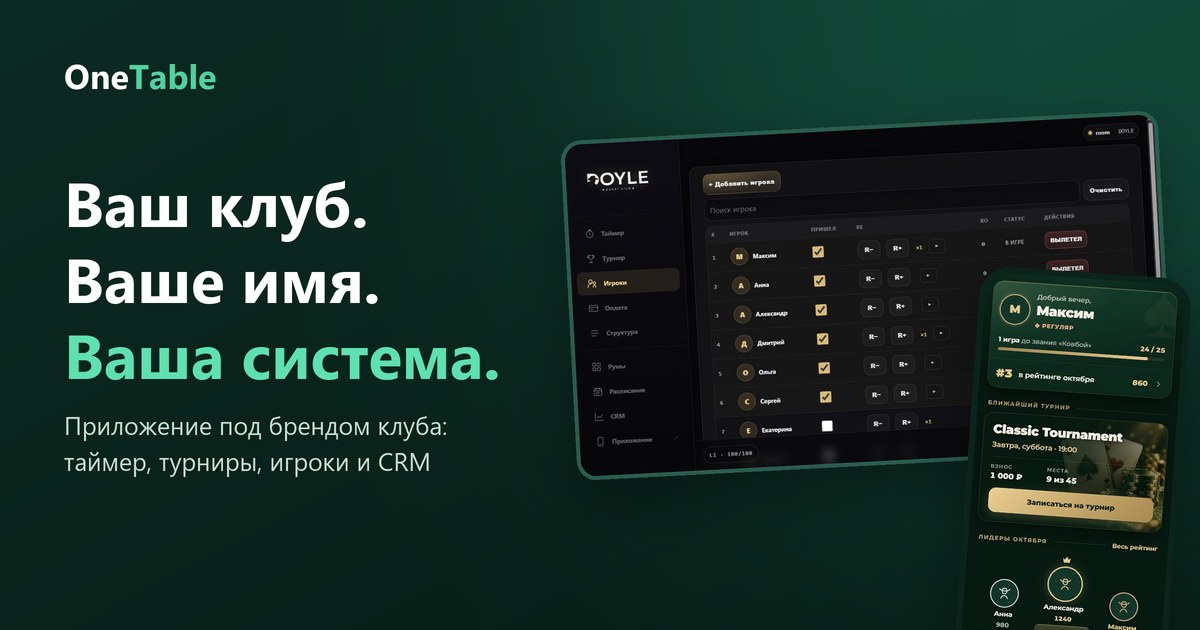
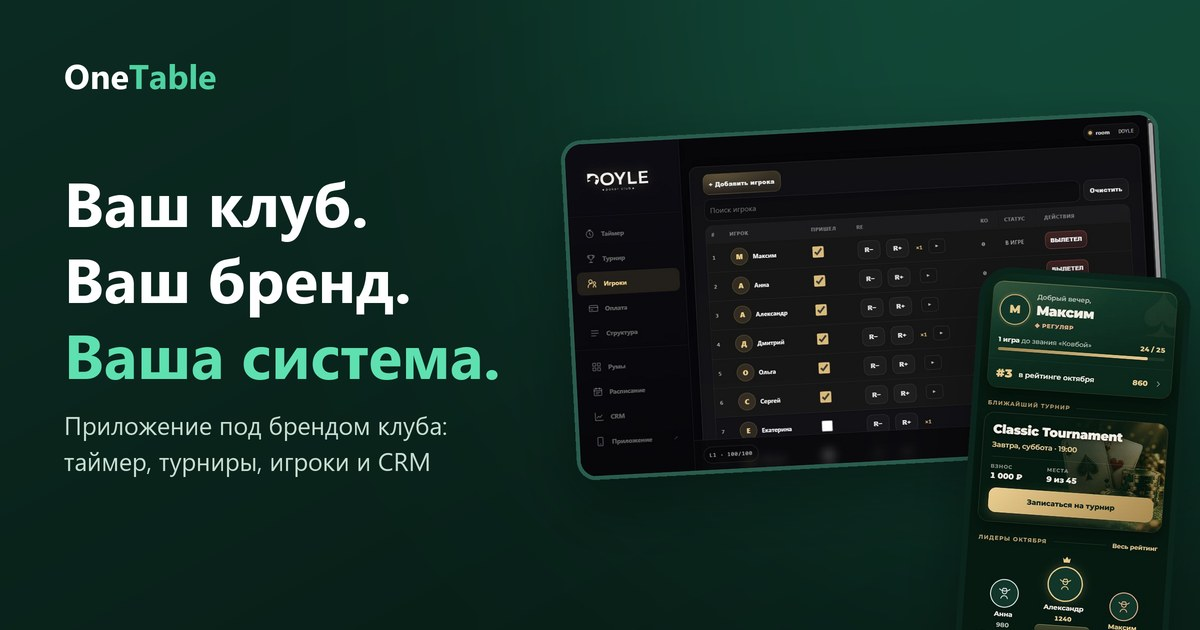
Show all four roles in one row; rename "Ваше имя" to "Ваш бренд"
- Roles section: four compact cards in a single row on screens >=1180px, full-size previews
- Hero and club section headlines now say "Ваш бренд."
- Regenerate og-image.jpg with the new headline

Changed region(s): [[0.1542, 0.3921, 0.3392, 0.5127]]

diff --git a/index.html b/index.html
@@ -10,13 +10,13 @@
 <meta name="twitter:card" content="summary_large_image"><meta name="twitter:title" content="OneTable — платформа для управления покерным клубом"><meta name="twitter:description" content="Приложение под брендом вашего клуба и покерная система: таймер, турниры, админ-панель и CRM — в одной платформе."><meta name="twitter:image" content="https://frimarion.github.io/onetable/og-image.jpg">
 <title>OneTable — платформа для управления покерным клубом</title>
 <meta name="description" content="Приложение под брендом вашего клуба и покерная система: таймер, турниры, админ-панель и CRM — в одной платформе.">
-<link rel="icon" href="logo.svg" type="image/svg+xml"><link rel="stylesheet" href="styles.css"><link rel="stylesheet" href="showcase.css"><link rel="stylesheet" href="readability.css"><link rel="stylesheet" href="design.css?v=13">
+<link rel="icon" href="logo.svg" type="image/svg+xml"><link rel="stylesheet" href="styles.css"><link rel="stylesheet" href="showcase.css"><link rel="stylesheet" href="readability.css"><link rel="stylesheet" href="design.css?v=15">
 </head>
 <body>
 <svg class="svg-library" xmlns="http://www.w3.org/2000/svg"><symbol id="arrow" viewBox="0 0 24 24"><path d="M5 12h14m-5-5 5 5-5 5"/></symbol><symbol id="check" viewBox="0 0 24 24"><path d="m5 12 4 4L19 6"/></symbol><symbol id="grid" viewBox="0 0 24 24"><rect x="3" y="3" width="7" height="7" rx="2"/><rect x="14" y="3" width="7" height="7" rx="2"/><rect x="3" y="14" width="7" height="7" rx="2"/><rect x="14" y="14" width="7" height="7" rx="2"/></symbol><symbol id="users" viewBox="0 0 24 24"><circle cx="9" cy="8" r="3"/><path d="M3 21v-3a6 6 0 0 1 12 0v3m1-16a3 3 0 0 1 0 6m2 3a5 5 0 0 1 3 5v2"/></symbol><symbol id="chart" viewBox="0 0 24 24"><path d="M4 3v17h17M8 15v-4m5 4V7m5 8V4"/></symbol><symbol id="clock" viewBox="0 0 24 24"><circle cx="12" cy="12" r="9"/><path d="M12 7v5l3 2"/></symbol><symbol id="cup" viewBox="0 0 24 24"><path d="M7 3h10v5a5 5 0 0 1-10 0V3Zm0 2H3v3a4 4 0 0 0 5 4m9-7h4v3a4 4 0 0 1-5 4m-4 1v7m-4 1h8"/></symbol><symbol id="play" viewBox="0 0 24 24"><path d="m9 5 11 7-11 7Z"/></symbol></svg>
 <header class="site-header"><div class="container header-inner"><a class="brand" href="#" aria-label="OneTable — главная"><img src="logo.svg" width="45" height="30" alt=""><span>One<span class="green">Table</span></span></a><nav aria-label="Главная навигация"><a href="#platform">Платформа</a><a href="#roles">Для кого</a><a href="#clubs">Для вашего клуба</a></nav><a class="button button-small button-dark header-cta" href="#contact" data-contact>Обсудить подключение <svg><use href="#arrow"/></svg></a><button class="menu-toggle" aria-label="Открыть меню" aria-expanded="false"><span></span><span></span></button></div></header>
 <main>
-<section class="hero"><div class="container hero-grid"><div class="hero-copy"><div class="eyebrow"><span class="status-dot"></span> ТЕХНОЛОГИИ ДЛЯ ВАШЕГО КЛУБА</div><h1>Ваш клуб.<br>Ваше имя.<br><span class="green">Ваша система.</span></h1><p class="hero-description">Приложение под брендом вашего клуба. Турниры, игроки, таймер и CRM — в одной системе.</p><div class="hero-actions"><a class="button button-green" href="#contact" data-contact>Обсудить подключение <svg><use href="#arrow"/></svg></a><button class="text-button" data-video><span class="play-small">▶</span> Смотреть 90 секунд</button></div><div class="hero-footnote"><span>Ваш бренд</span><span>Ваша команда</span><span>Одна платформа</span></div></div>
+<section class="hero"><div class="container hero-grid"><div class="hero-copy"><div class="eyebrow"><span class="status-dot"></span> ТЕХНОЛОГИИ ДЛЯ ВАШЕГО КЛУБА</div><h1>Ваш клуб.<br>Ваш бренд.<br><span class="green">Ваша система.</span></h1><p class="hero-description">Приложение под брендом вашего клуба. Турниры, игроки, таймер и CRM — в одной системе.</p><div class="hero-actions"><a class="button button-green" href="#contact" data-contact>Обсудить подключение <svg><use href="#arrow"/></svg></a><button class="text-button" data-video><span class="play-small">▶</span> Смотреть 90 секунд</button></div><div class="hero-footnote"><span>Ваш бренд</span><span>Ваша команда</span><span>Одна платформа</span></div></div>
 <div class="hero-visual" aria-label="Пример панели управления и приложения игрока"><div class="visual-grid"></div><div class="orbit-label"><span class="status-dot"></span> ONETABLE / ПРОДУКТ В ДЕЙСТВИИ</div><div class="dashboard real-dashboard"><button class="screen-zoom " data-screen="doyle-admin-players.png" data-title="Doyle — панель администратора" aria-label="Увеличить экран: Doyle — панель администратора"><img src="doyle-admin-players.png" alt="Doyle — панель администратора" loading="lazy"><span class="zoom-hint">Открыть экран ↗</span></button></div>
 <div class="phone real-phone"><button class="screen-zoom " data-screen="doyle-player-home.png" data-title="Doyle — приложение игрока" aria-label="Увеличить экран: Doyle — приложение игрока"><img src="doyle-player-home.png" alt="Doyle — приложение игрока" loading="lazy"><span class="zoom-hint">Открыть экран ↗</span></button></div><div class="product-label product-label-admin"><span>01</span><b>Команда управляет</b><small>Игроки · регистрации · оплаты</small></div><div class="product-label product-label-player"><span>02</span><b>Игроки возвращаются</b><small>Турниры · профиль · рейтинг</small></div><div class="floating-notice"><span class="notice-icon">✓</span><div><b>Новый игрок записался</b><small>Он уже в списке турнира</small></div><span class="notice-live">сейчас</span></div></div></div><div class="container hero-bottom"><span>Меньше рутины. Больше игры.</span><a href="#platform">Познакомиться с OneTable <span>↓</span></a></div></section>
 <section class="proof-strip"><div class="container proof-inner"><p>Разработано на опыте<br><strong>реальных покерных клубов</strong></p><div class="club-logo club-logo-doyle"><img src="doyle-logo-green.svg" alt="Doyle Poker Club" width="190" height="62"></div><div class="club-logo club-logo-vyatka"><img src="vyatka-logo.svg" alt="Вятка Покер Клуб" width="205" height="62"></div><span class="proof-note">Из клубной практики —<br>в ваш рабочий день.</span></div></section>
@@ -30,7 +30,7 @@
 <section class="section roles-section" id="roles"><div class="container"><div class="section-heading"><div><div class="eyebrow">03 / ДЛЯ ВСЕХ УЧАСТНИКОВ КЛУБА</div><h2>Четыре роли.<br><span class="green">Одна система.</span></h2></div><p>Каждому — свои инструменты. От записи на турнир до управления бизнесом.</p></div><div class="role-grid"><article class="role-card"><div class="role-preview role-preview-player actual-role-preview"><span class="preview-kicker">ЛИЧНЫЙ КАБИНЕТ / DOYLE</span><button class="screen-zoom " data-screen="doyle-player-home.png" data-title="Мобильная главная приложения Doyle" aria-label="Увеличить экран: Мобильная главная приложения Doyle"><img src="doyle-player-home.png" alt="Мобильная главная приложения Doyle" loading="lazy"><span class="zoom-hint">Открыть экран ↗</span></button></div><span class="role-icon"><svg><use href="#users"/></svg></span><span class="role-label">01 / ИГРОК</span><h3>Клуб всегда<br>под рукой.</h3><p>Приложение под брендом клуба: расписание, запись на турниры, профиль, статистика и достижения.</p><div class="role-tools">ПРИЛОЖЕНИЕ · РЕЙТИНГ · ПРОФИЛЬ</div></article><article class="role-card"><div class="role-preview role-preview-admin actual-role-preview"><span class="preview-kicker">РЕГИСТРАЦИЯ / DOYLE</span><button class="screen-zoom " data-screen="doyle-admin-players.png" data-title="Панель управления игроками Doyle" aria-label="Увеличить экран: Панель управления игроками Doyle"><img src="doyle-admin-players.png" alt="Панель управления игроками Doyle" loading="lazy"><span class="zoom-hint">Открыть экран ↗</span></button></div><span class="role-icon"><svg><use href="#grid"/></svg></span><span class="role-label">02 / АДМИНИСТРАТОР</span><h3>Порядок<br>в каждом действии.</h3><p>Админ-панель для записей, регистрации игроков, учёта участий, реентри и оплат.</p><div class="role-tools">АДМИН-ПАНЕЛЬ · РЕГИСТРАЦИЯ · УЧЁТ</div></article><article class="role-card"><div class="role-preview role-preview-floor"><span class="preview-kicker">ПРИМЕР ИГРОВОГО ЭКРАНА</span><div class="role-preview-top"><b>DOYLE / LIVE</b><span>УРОВЕНЬ 6</span></div><div class="role-timer">14<span>:</span>32</div><div class="role-timer-line"></div><div class="role-blinds"><span>БЛАЙНДЫ<b>500 / 1 000</b></span><span>В ИГРЕ<b>24 / 36</b></span></div></div><span class="role-icon"><svg><use href="#clock"/></svg></span><span class="role-label">03 / ФЛОР</span><h3>Весь турнир<br>перед глазами.</h3><p>Настраиваемый таймер, структура блайндов, рассадка и фиксация вылетов — для управления ходом игры.</p><div class="role-tools">ТАЙМЕР · РАССАДКА · ХОД ТУРНИРА</div></article><article class="role-card"><div class="role-preview role-preview-owner"><span class="preview-kicker">ПРИМЕР ОТЧЁТА</span><div class="role-preview-top"><b>Обзор клуба</b><span>ИГРОВОЙ ДЕНЬ</span></div><div class="role-owner-count"><small>Учтено оплат</small><strong>48 000 <span>₽</span></strong></div><div class="role-bars" aria-hidden="true"><i style="--h:32%"></i><i style="--h:56%"></i><i style="--h:42%"></i><i style="--h:80%"></i><i style="--h:62%"></i><i style="--h:95%"></i><i style="--h:74%"></i></div><div class="role-owner-bottom"><span><b>36</b> участий</span><span><b>12</b> реентри</span><span><b>48</b> оплат</span></div></div><span class="role-icon"><svg><use href="#chart"/></svg></span><span class="role-label">04 / ВЛАДЕЛЕЦ БИЗНЕСА</span><h3>Общая картина.<br>Основа для решений.</h3><p>CRM, база игроков, результаты турниров и отчёты по оплатам — для управления клубом и работой с гостями.</p><div class="role-tools">CRM · ИГРОКИ · ОТЧЁТЫ</div></article></div></div></section>
 <section class="section workflow" id="workflow"><div class="container"><div class="section-heading"><div><div class="eyebrow">04 / ОТ СТАРТА ДО ФИНИША</div><h2>Один игровой день.<br>Без десятка инструментов.</h2></div><p>Игрок записывается, администратор встречает, флор ведёт турнир, а владелец видит итоги. Все работают в одной системе.</p></div><div class="workflow-line"><article><span class="step-circle">01</span><h3>Подготовьте</h3><p>Выберите макет турнира, задайте структуру и опубликуйте игру.</p><span class="step-detail">МАКЕТ → АНОНС</span></article><article><span class="step-circle">02</span><h3>Встречайте</h3><p>Получайте записи, отмечайте пришедших и распределяйте игроков по столам.</p><span class="step-detail">ЗАПИСЬ → РАССАДКА</span></article><article><span class="step-circle">03</span><h3>Проводите</h3><p>Следите за таймером, учитывайте реентри и фиксируйте вылеты.</p><span class="step-detail">ТАЙМЕР → ХОД ИГРЫ</span></article><article><span class="step-circle">04</span><h3>Подведите итоги</h3><p>Завершите расчёты. Результаты попадут в рейтинг и Telegram-канал.</p><span class="step-detail">РЕЗУЛЬТАТЫ → ОТЧЁТ</span></article></div></div></section>
 <section class="video-section"><div class="container"><div class="video-heading"><div><div class="eyebrow">ПОСМОТРЕТЬ В ДЕЛЕ</div><h2>Весь клуб.<br>За полторы минуты.</h2></div><p>Реальный сценарий работы платформы:<br>от создания турнира до отчёта.</p></div><button class="video-preview" data-video aria-label="Смотреть видеопрезентацию OneTable"><img src="demo-poster.jpg" alt="Кадр видеопрезентации: приложение игрока и панель организатора" loading="lazy"><span class="video-shade"></span><span class="video-play"><svg><use href="#play"/></svg></span><span class="video-bottom"><b>Познакомьтесь с OneTable</b><span>01:30 <span>↗</span></span></span></button></div></section>
-<section class="section clubs" id="clubs"><div class="container clubs-grid"><div><div class="eyebrow">05 / ПОД ВАШ КЛУБ</div><h2>Ваше имя.<br>Ваши правила.<br><span class="green">Ваш OneTable.</span></h2><p>Настраиваем приложение под бренд клуба. Таймер тоже можно кастомизировать, чтобы игровой экран продолжал ваш фирменный стиль.</p><a class="inline-link" href="#contact" data-contact>Обсудить мой клуб <svg><use href="#arrow"/></svg></a></div><div class="customization"><div class="customize-head"><span>ВАШ БРЕНД. ВАШ ХАРАКТЕР.</span><span>Попробуйте ↓</span></div><div class="theme-preview" id="theme-preview"><div class="preview-brand"><span class="preview-mark">D</span><span>Ваш клуб<small>POWERED BY ONETABLE</small></span></div><div class="preview-tournament"><span>СЛЕДУЮЩАЯ ИГРА</span><h3>Friday<br>Deep Stack</h3><p>Пятница, 19:00 · 30 000 фишек</p><div class="preview-register">Записаться на турнир <span>↗</span></div></div></div><div class="color-picker"><span>Цвет вашего клуба</span><div role="group" aria-label="Выберите цвет оформления"><button class="swatch selected" style="--swatch:#087e5e" data-color="#087e5e" aria-label="Изумрудный" aria-pressed="true"></button><button class="swatch" style="--swatch:#c46b25" data-color="#c46b25" aria-label="Оранжевый" aria-pressed="false"></button><button class="swatch" style="--swatch:#5265d7" data-color="#5265d7" aria-label="Синий" aria-pressed="false"></button><button class="swatch" style="--swatch:#8d51b2" data-color="#8d51b2" aria-label="Фиолетовый" aria-pressed="false"></button></div></div><p class="customization-note">Пример оформления приложения. Таймер также настраивается под стиль клуба.</p></div></div></section>
+<section class="section clubs" id="clubs"><div class="container clubs-grid"><div><div class="eyebrow">05 / ПОД ВАШ КЛУБ</div><h2>Ваш бренд.<br>Ваши правила.<br><span class="green">Ваш OneTable.</span></h2><p>Настраиваем приложение под бренд клуба. Таймер тоже можно кастомизировать, чтобы игровой экран продолжал ваш фирменный стиль.</p><a class="inline-link" href="#contact" data-contact>Обсудить мой клуб <svg><use href="#arrow"/></svg></a></div><div class="customization"><div class="customize-head"><span>ВАШ БРЕНД. ВАШ ХАРАКТЕР.</span><span>Попробуйте ↓</span></div><div class="theme-preview" id="theme-preview"><div class="preview-brand"><span class="preview-mark">D</span><span>Ваш клуб<small>POWERED BY ONETABLE</small></span></div><div class="preview-tournament"><span>СЛЕДУЮЩАЯ ИГРА</span><h3>Friday<br>Deep Stack</h3><p>Пятница, 19:00 · 30 000 фишек</p><div class="preview-register">Записаться на турнир <span>↗</span></div></div></div><div class="color-picker"><span>Цвет вашего клуба</span><div role="group" aria-label="Выберите цвет оформления"><button class="swatch selected" style="--swatch:#087e5e" data-color="#087e5e" aria-label="Изумрудный" aria-pressed="true"></button><button class="swatch" style="--swatch:#c46b25" data-color="#c46b25" aria-label="Оранжевый" aria-pressed="false"></button><button class="swatch" style="--swatch:#5265d7" data-color="#5265d7" aria-label="Синий" aria-pressed="false"></button><button class="swatch" style="--swatch:#8d51b2" data-color="#8d51b2" aria-label="Фиолетовый" aria-pressed="false"></button></div></div><p class="customization-note">Пример оформления приложения. Таймер также настраивается под стиль клуба.</p></div></div></section>
 <section class="faq-section"><div class="container faq-grid"><div><div class="eyebrow">ОСТАЛОСЬ УТОЧНИТЬ</div><h2>Хорошие <br>вопросы.</h2></div><div class="faq-list"><details><summary>Что входит в покерную систему?<span>+</span></summary><p>Админ-панель, CRM, настраиваемый таймер, инструменты для турниров и рассадки, учёт участий и оплат, рейтинги и отчёты. Система связана с приложением для игроков, которое оформляем под ваш клуб.</p></details><details><summary>Это покер-рум для игры онлайн?<span>+</span></summary><p>OneTable — платформа для организации работы очного покерного клуба. В неё входят приложение для игроков под брендом клуба, настраиваемый таймер, админ-панель, CRM, управление турнирами и учёт.</p></details><details><summary>Можно использовать название и стиль моего клуба?<span>+</span></summary><p>Да. Создаём приложение с названием, логотипом и цветами вашего клуба. Оформление таймера также можно кастомизировать под фирменный стиль.</p></details><details><summary>Как платформа работает с Telegram?<span>+</span></summary><p>Бот публикует анонсы и итоги турниров в канале клуба. Игроки получают доступ к расписанию и записи через приложение.</p></details><details><summary>Можно выгрузить отчёты?<span>+</span></summary><p>Отчёт по оплатам можно выгрузить для дальнейшей работы в Excel или Google Таблицах.</p></details><details><summary>С чего начать и сколько это стоит?<span>+</span></summary><p>Начнём с демонстрации и обсуждения ваших процессов: формата турниров, работы администратора и приложения игроков. Состав решения и стоимость обсудим после знакомства с вашим клубом.</p></details></div></div></section>
 <section class="contact-section" id="contact"><div class="container contact-inner"><div class="eyebrow"><span class="status-dot"></span> СЛЕДУЮЩИЙ ХОД — ЗА ВАМИ</div><h2>Давайте соберём<br>ваш клуб в <span>OneTable.</span></h2><p>Обсудим приложение под ваш бренд<br>и систему для всей команды клуба.</p><button class="button button-green" id="contact-open">Обсудить подключение <svg><use href="#arrow"/></svg></button><span class="contact-subline">Начнём с ваших задач.</span></div><div class="contact-orbit" aria-hidden="true"></div></section>
 </main><footer><div class="container footer-inner"><a class="brand" href="#"><img src="logo.svg" width="40" height="27" alt=""><span>One<span class="green">Table</span></span></a><span>Меньше рутины. Больше игры.</span><span>© <span id="year">2026</span> OneTable</span><a href="#">Наверх ↑</a></div></footer>

diff --git a/design.css b/design.css
@@ -152,3 +152,29 @@ footer .brand{color:#fff}footer .brand .green{color:#4fd1a1}
 @media(max-width:640px){.faq-list summary{font-size:17px;padding:22px 0}.faq-list details p{font-size:15px;padding-right:0}.clubs-grid>div>p{font-size:16px}.customization{padding:22px}}
 @media(max-width:640px){.contact-inner>p br{display:none}}
 .trust[hidden]{display:none}
+
+/* Роли: четыре карточки в один ряд, чтобы видна была многофункциональность */
+@media(min-width:1180px){
+.roles-section{padding-top:72px;padding-bottom:80px}
+.roles-section .section-heading{margin-bottom:30px}
+.roles-section .role-grid{grid-template-columns:repeat(4,minmax(0,1fr));gap:16px}
+.roles-section .role-card{padding:12px 12px 22px;border-radius:16px}
+.roles-section .role-preview{height:200px!important;padding:40px 14px 14px;margin-bottom:18px}
+.roles-section .preview-kicker{left:14px;top:14px;font-size:9px;letter-spacing:1.1px}
+.roles-section .role-card>.role-label{margin:0 6px;font-size:11px}
+.roles-section .role-card>h3{font-size:21px;line-height:1.2;margin:10px 6px 10px}
+.roles-section .role-card>p{font-size:14px;line-height:1.55;margin:0 6px 18px}
+.roles-section .role-tools{margin:auto 6px 0;padding-top:14px;font-size:9px;letter-spacing:.5px}
+/* настоящие экраны: админка целиком, телефон — верхняя часть с плавным краем */
+.roles-section .role-preview-admin.actual-role-preview{padding:34px 0 0!important}
+.roles-section .role-preview-admin.actual-role-preview img{width:100%;height:auto;transform:none;object-fit:initial}
+.roles-section .role-preview-player.actual-role-preview img{width:150px;transform:none}
+/* макеты экранов флора и владельца */
+.roles-section .role-timer{font-size:46px;margin:12px 0 10px}
+.roles-section .role-blinds{margin-top:12px}.roles-section .role-blinds b{font-size:15px;margin-top:5px}.roles-section .role-blinds>span{font-size:9px}
+.roles-section .role-preview-top{font-size:11px}.roles-section .role-preview-top>span{font-size:8px}
+.roles-section .role-owner-count{margin-top:10px}.roles-section .role-owner-count strong{font-size:30px}.roles-section .role-owner-count>small{font-size:11px}
+.roles-section .role-bars{height:36px;margin-top:8px;gap:8px}.roles-section .role-owner-bottom{margin-top:8px;font-size:10px}
+/* подсказка «Открыть экран» — только при наведении, чтобы не закрывать макет */
+.roles-section .zoom-hint{opacity:0;transition:opacity .2s}.roles-section .screen-zoom:hover .zoom-hint,.roles-section .screen-zoom:focus-visible .zoom-hint{opacity:1}
+}
